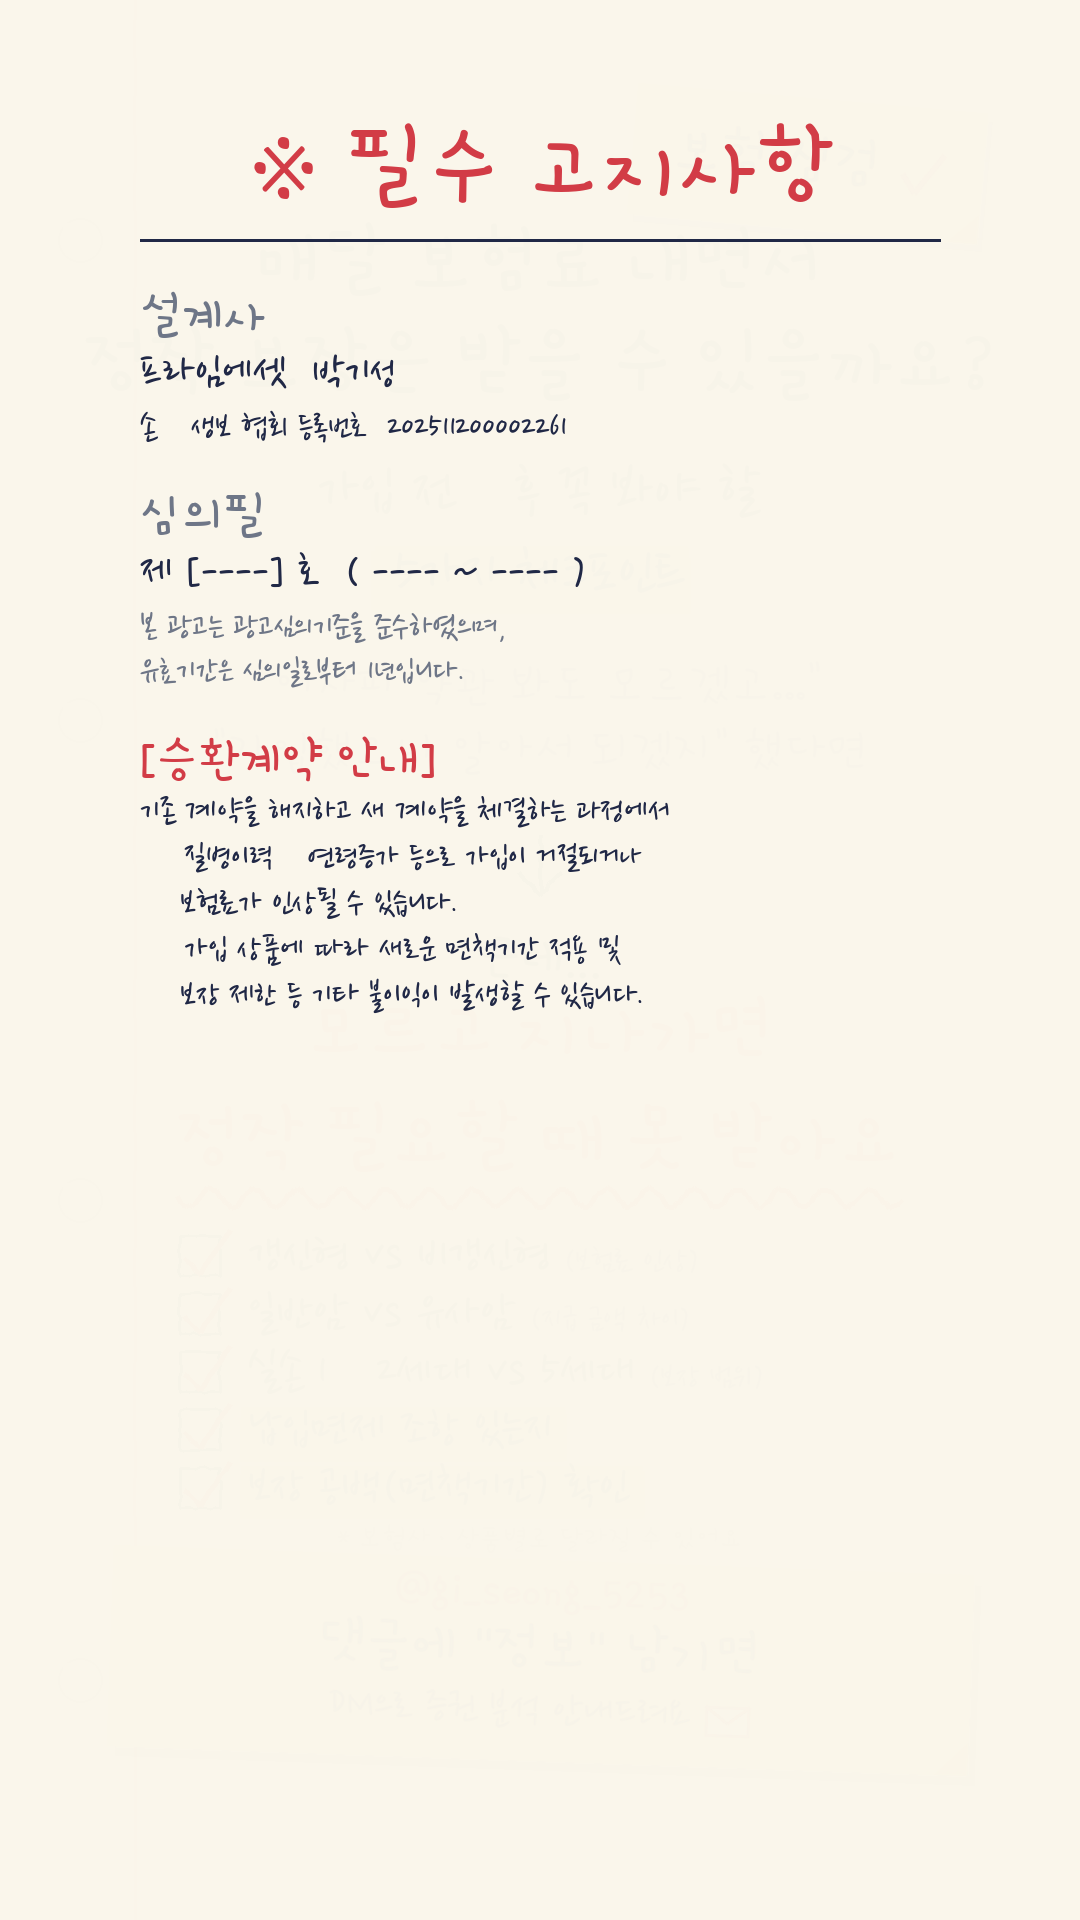
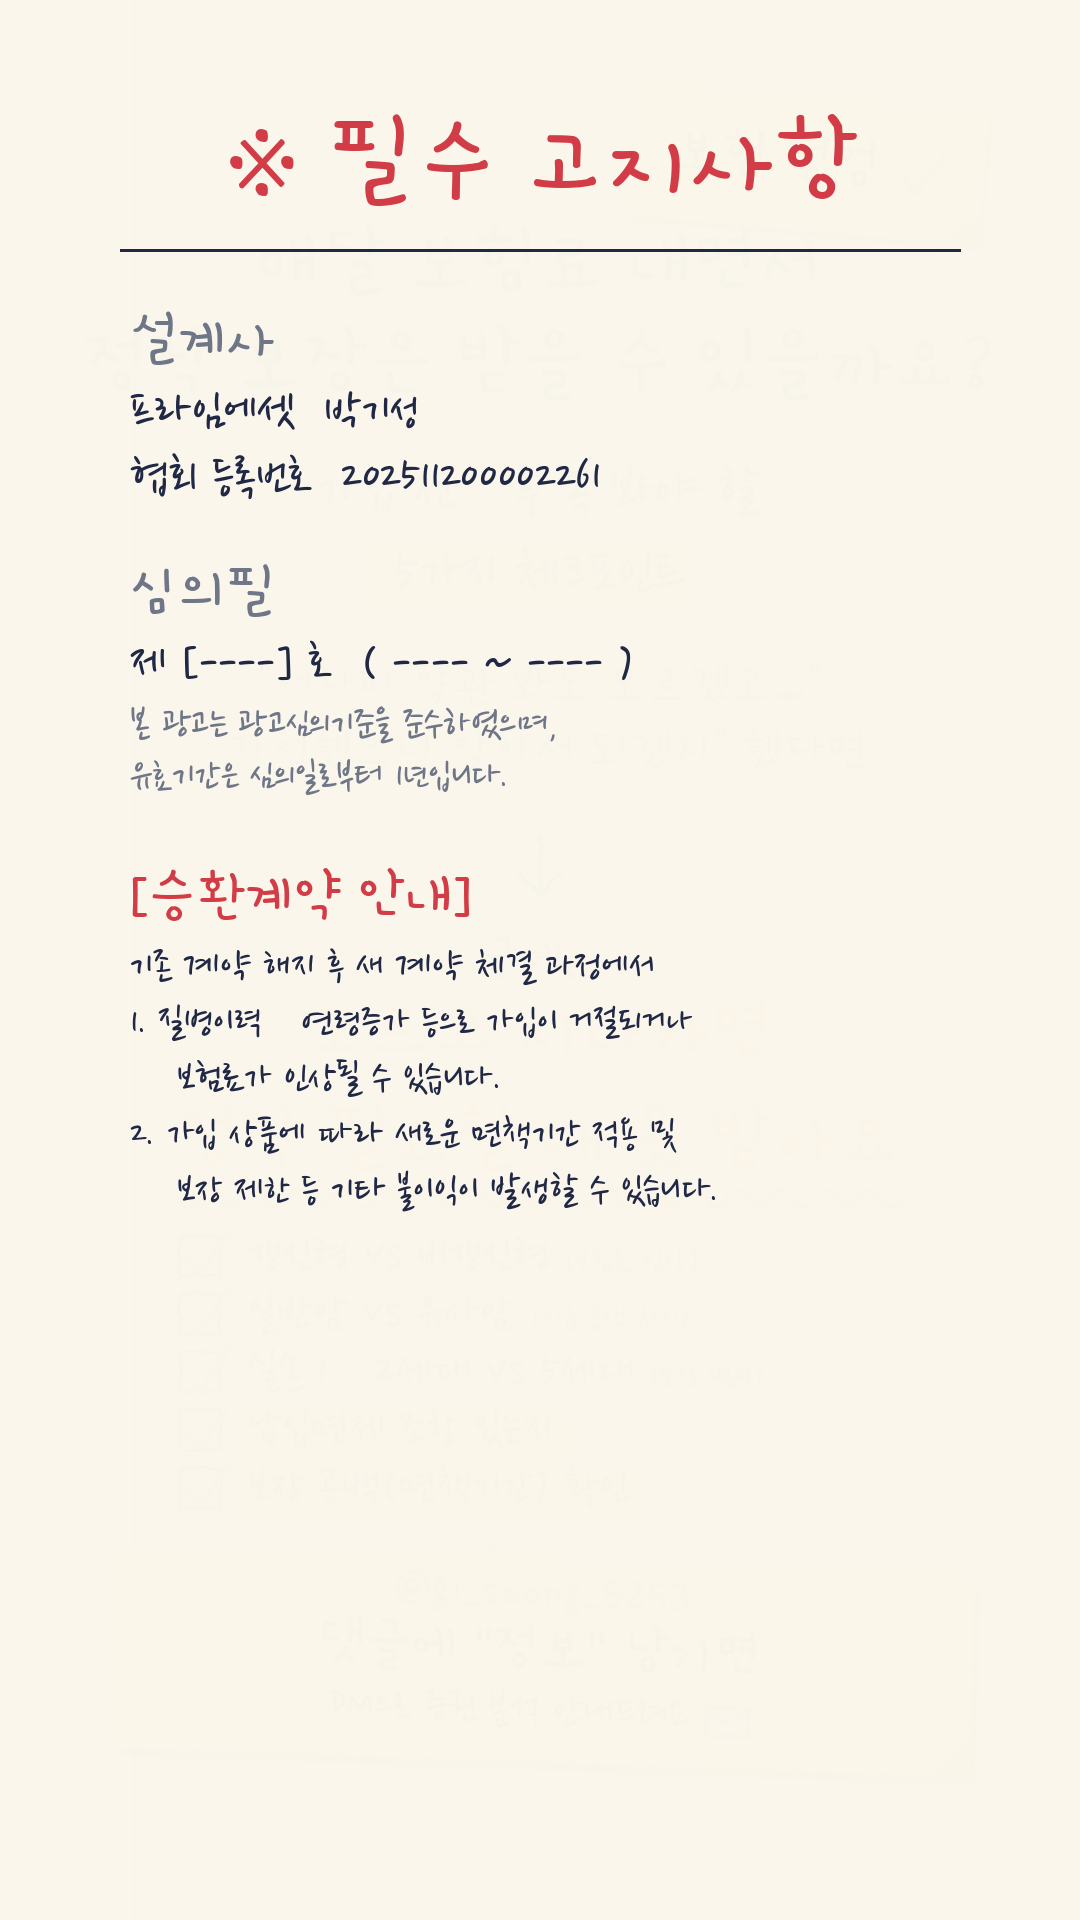
Enlarge and reflow the 13-15s 필수고지 full-screen
Bump font sizes +2pt across the board (title 96→104, label 52→60,
body 46→52, small 36→42) and widen section spacing so 설계사,
심의필, [승환계약 안내] each get a clear vertical block with breathing
room. Re-render Reels 01 with the new layout.

https://claude.ai/code/session_01AequftvsX574ZnpuaftTum

diff --git a/reels/scripts/reels_overlay.py b/reels/scripts/reels_overlay.py
@@ -88,52 +88,56 @@ def draw_final_disclosure(base, t):
     layer = Image.new('RGBA', (W, H), (0, 0, 0, 0))
     ld = ImageDraw.Draw(layer)
 
-    title_font  = _f(GAMJA_P, 96)
-    label_font  = _f(GAMJA_P, 52)
-    body_font   = _f(NANUM_P, 46)
-    body_red    = _f(NANUM_P, 46)
-    small_font  = _f(NANUM_P, 36)
+    title_font = _f(GAMJA_P, 104)
+    label_font = _f(GAMJA_P, 60)
+    body_font  = _f(NANUM_P, 52)
+    small_font = _f(NANUM_P, 42)
 
     # 타이틀
     title = "※ 필수 고지사항"
     b = ld.textbbox((0, 0), title, font=title_font)
     tx = (W - (b[2] - b[0])) // 2
-    ld.text((tx, 120), title, fill=RED_INK + (a,), font=title_font)
+    ld.text((tx, 110), title, fill=RED_INK + (a,), font=title_font)
 
     # 가로 줄
-    ld.line([(140, 240), (W - 140, 240)], fill=INK + (a,), width=3)
+    ld.line([(120, 250), (W - 120, 250)], fill=INK + (a,), width=3)
 
-    y = 290
-    # 설계사
-    agent_label = "설계사"
-    ld.text((140, y), agent_label, fill=PENCIL + (a,), font=label_font)
-    y += 60
-    ld.text((140, y), "프라임에셋  박기성", fill=INK + (a,), font=body_font)
-    y += 60
-    ld.text((140, y), "손·생보 협회 등록번호  202511200002261",
-            fill=INK + (a,), font=small_font)
-    y += 80
+    LEFT = 130
+    y = 310
 
-    # 심의필
-    ld.text((140, y), "심의필", fill=PENCIL + (a,), font=label_font)
-    y += 60
-    ld.text((140, y), "제 [----] 호  ( ---- ~ ---- )",
+    # ─── 설계사 ───
+    ld.text((LEFT, y), "설계사", fill=PENCIL + (a,), font=label_font)
+    y += 76
+    ld.text((LEFT, y), "프라임에셋  박기성", fill=INK + (a,), font=body_font)
+    y += 66
+    ld.text((LEFT, y), "협회 등록번호  202511200002261",
             fill=INK + (a,), font=body_font)
-    y += 60
-    ld.text((140, y), "본 광고는 광고심의기준을 준수하였으며,",
-            fill=PENCIL + (a,), font=small_font)
-    y += 44
-    ld.text((140, y), "유효기간은 심의일로부터 1년입니다.",
-            fill=PENCIL + (a,), font=small_font)
-    y += 80
+    y += 110
 
-    # 승환계약 안내
-    for line, is_label in SWITCH_LINES:
-        if is_label:
-            ld.text((140, y), line, fill=RED_INK + (a,), font=label_font)
-            y += 60
-        else:
-            ld.text((140, y), line, fill=INK + (a,), font=small_font)
-            y += 46
+    # ─── 심의필 ───
+    ld.text((LEFT, y), "심의필", fill=PENCIL + (a,), font=label_font)
+    y += 76
+    ld.text((LEFT, y), "제 [----] 호  ( ---- ~ ---- )",
+            fill=INK + (a,), font=body_font)
+    y += 66
+    ld.text((LEFT, y), "본 광고는 광고심의기준을 준수하였으며,",
+            fill=PENCIL + (a,), font=small_font)
+    y += 52
+    ld.text((LEFT, y), "유효기간은 심의일로부터 1년입니다.",
+            fill=PENCIL + (a,), font=small_font)
+    y += 110
+
+    # ─── 승환계약 안내 ───
+    ld.text((LEFT, y), "[승환계약 안내]", fill=RED_INK + (a,), font=label_font)
+    y += 80
+    for line in [
+        "기존 계약 해지 후 새 계약 체결 과정에서",
+        "1. 질병이력·연령증가 등으로 가입이 거절되거나",
+        "    보험료가 인상될 수 있습니다.",
+        "2. 가입 상품에 따라 새로운 면책기간 적용 및",
+        "    보장 제한 등 기타 불이익이 발생할 수 있습니다.",
+    ]:
+        ld.text((LEFT, y), line, fill=INK + (a,), font=small_font)
+        y += 56
 
     base.alpha_composite(layer, (0, 0))
